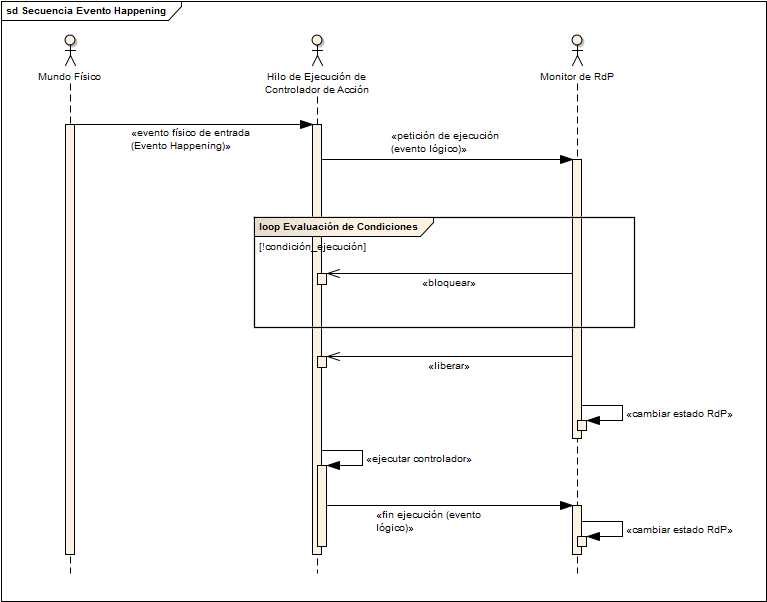
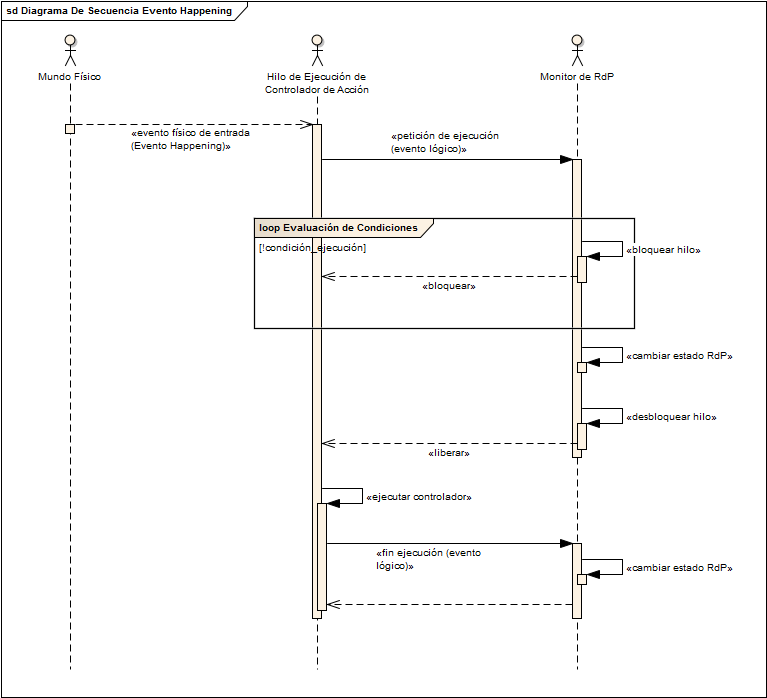
Adding implementation details and UML diagrams. Modifying sequence diagrams for task and happening events

diff --git a/InformeBaboon/sections/baboon_framework/implementacion/DetallesImplementacion.tex b/InformeBaboon/sections/baboon_framework/implementacion/DetallesImplementacion.tex
@@ -1,0 +1,254 @@
+\section{Implementación de \nombreFramework Framework}
+El framework fue implementado de acuerdo a los aspectos de diseño expuestos en
+las secciones anteriores. Es un framework de caja blanca (ver
+sección~\ref{sec:tipos_framework}), donde el usuario tiene la
+responsabilidad de definir componentes como:
+\begin{itemize} 
+  \item Controladores de acciones.
+  \item Tópicos.
+  \item Modelo de la lógica del sistema en RdP.
+\end{itemize}
+
+Por su lado, el framework se encarga de:
+\begin{itemize} 
+  \item Proveer interfaces para interconectar los componentes definidos por el
+  usuario.
+  \item Controlar el flujo de ejecución del programa.
+\end{itemize}
+
+\subsection{Implementación de un Controlador De Acción}
+\label{sec:implementacion_controlador_accion}
+La implementación de un controlador de acción queda definida por dos elementos:
+\begin{labeling}{description}
+  \item [Acción a realizar: ] Método con una anotación de Java
+  identificando el tipo de controlador de acción. 
+  Dicha anotacion puede ser de dos tipos:
+  \begin{itemize}
+    \item \emph{@TaskController}
+    \item \emph{@HappeningController}
+  \end{itemize}
+  \item [Ejecutante de la Acción: ] Una instancia de la clase que contiene el
+  método.
+\end{labeling}
+
+\subsection{Componentes del Framework}
+En la Figura~\ref{fig:diagrama_componentes} se pueden observar los
+módulos que componen el framework implementado:
+\begin{itemize}
+  \item \textbf{BaboonConfig: } Este componente se encarga de manejar la
+  suscripción de controladores de acciones a los tópicos (eventos de acción).
+  Para ello provee interfaces para:
+	  \begin{itemize}
+	    \item Recibir el archivo de tópicos definido por el usuario
+	    \emph{(addTopics)}.
+	    \item Suscribir los controladores de acciones a tópicos específicos
+	    \emph{(subscribeToTopic, createNewComplexTask, appendTaskToComplexTask)}.
+	    \item Consultar las suscripciones existentes
+	    \emph{(getTaskControllerSubscription,
+	    getHappeningControllerSubscripton)}.
+	  \end{itemize}
+	  
+  \item \textbf{PetriCore: } Este componente es un wrapper sobre el monitor de
+  Redes de Petri descripto en la
+  Sección~\ref{sec:java_petri_concurrency_monitor}, y provee las interfaces del
+  monitor al resto del framework.
+  
+  \item \textbf{BaboonApplication: } Es una interfaz Java que define dos
+  métodos. Esta interfaz debe ser implementada por una clase de usuario, que
+  será utilizada para inicializar el sistema. Los métodos son:
+  \begin{itemize}
+    \item \textbf{\emph{declare(): }} En este método el usuario debe:
+    	\begin{enumerate}
+    	  \item Proveer un archivo JSON con la definición de los tópicos.
+    	  \item Proveer un archivo PNML con la definición del modelo de RdP.
+    	  \item Declarar e inicializar los objetos del sistema. Estos objetos
+    	  (desarrollados por el usuario) contienen la implementación
+    	  de los controladores de acción.
+    	\end{enumerate}
+    \item \textbf{\emph{subscribe(): }} En este método el usuario define todas
+    las suscripciones de controladores de acción a tópicos.
+   \end{itemize}
+   
+  \item \textbf{DummyThread: } Objeto que implementa la interfaz Callable y, en
+  consecuencia, es ejecutable por un hilo. Encapsula el controlador de acción
+  con los eventos lógicos necesarios para su sincronización. Se lo denomina
+  ``dummy'' (tonto) porque su función es intercambiar eventos lógicos de
+  sincronización con el monitor, que ya han sido definidos en el tópico, y
+  ejecutar acciones, que ya han sido definidas en el TaskController.
+  
+  \item \textbf{DummiesExecutor: } Pool de hilos encargado de ejecutar los
+  objetos DummyThread.
+  
+  \item \textbf{HappeningControllerJoinpoints: } Objeto de AspectJ donde se
+  definen los puntos de unión del sistema y los advices que se aplican en
+  dichos puntos.
+  Es observable por aquellos objetos que implementen la interfaz
+  JoinPointObserver.
+  Los puntos de union se alcanzan:
+  	\begin{itemize}
+  	  \item  En el momento previo a iniciar la ejecución de un
+  	  método anotado con \emph{@HappeningController}.
+  	  \item En el momento posterior a finalizar la ejecución de un
+  	  método anotado con \emph{@HappeningController}.
+  	\end{itemize}
+  Durante la ejecución del advice se realiza una actualización sobre los
+  observadores suscriptos al objeto, brindando el estado del joinpoint
+  alcanzado. El estado del joinpoint permite identificar a un
+  HappeningController en particular a partir de la instancia de objeto que hizo
+  el llamado a ejecución, y de la firma del método que se llamó a ejecutar (ver
+  Sección~\ref{sec:implementacion_controlador_accion}).
+  
+  \item \textbf{HappeningControllerSyncronizer: } Objeto que implementa la
+  interfaz JoinPointObserver. Se suscribe como observador del objeto
+  HappeningControllerJoinpoint. Cuando se alcanza un joinpoint intercambia con
+  el monitor los eventos lógicos necesarios para la sincronización del
+  HappeningController. Obtiene los eventos lógicos utilizando las
+  interfaces de BaboonConfig para consultar las suscripciones a tópicos.
+  
+  \item \textbf{Main: } Componente que contiene el método principal del
+  programa. Al existir inversión de control, el método main forma parte del
+  framework y no debe ser implementado por el usuario.
+\end{itemize}
+
+\begin{figure}[H]
+	\vspace*{-4cm}
+	\hspace{-1,60cm}
+	\includegraphics[width=150mm]{diagrama_componentes}
+	\caption{Diagrama de Componentes de la implementación de \nombreFramework
+	Framework}
+	\label{fig:diagrama_componentes}
+\end{figure}
+
+
+\subsection{Ejecución del Framework}
+
+\begin{itemize}
+  \item \textbf{Main: } La ejecución de este método consta de
+  los siguientes pasos (ver
+  Figura~\ref{fig:diagrama_secuencia_implementacion_ejecucion_main}):
+  	\begin{enumerate}
+  	  \item Obtiene la clase de usuario que implementa la interfaz
+  	  BaboonApplication (utilizando Reflection) e instancia un nuevo objeto de
+  	  dicha clase.
+  	  \item Ejecuta los métodos declare() y subscribe() (en ese orden) del
+  	  objeto mencionado en el punto anterior.
+  	  \item Crea el Objeto HappeningControllerSyncronizer y lo suscribe
+  	  como observer de HappeningControllerJoinPoint.
+  	  \item Utiliza las interfaces de BaboonConfig para obtener las
+  	  suscripciones a tópicos de los Task Controllers.
+  	  \item Encapsula los TaskControllers en DummyThreads y los envía al objeto
+  	  DummiesExecutor para su ejecución.
+  	\end{enumerate}
+  	
+ \begin{figure}[H]
+	\hspace{-2,90cm}
+	\includegraphics[width=180mm]{secuencia_implementacion_ejecucion_main}
+	\caption{Diagrama de Secuencia de la Implementación del Método Principal}
+	\label{fig:diagrama_secuencia_implementacion_ejecucion_main}
+\end{figure}
+
+
+  \item \textbf{TaskController: } La ejecución del TaskController implementada
+  consta de los siguientes pasos (ver
+  Figura~\ref{fig:diagrama_secuencia_implementacion_ejecucion_task_controller}):
+  	\begin{enumerate}
+  	  \item El pool de hilos DummiesExecutor llama a ejecutar el método
+  	  \emph{call()} del DummyThread (el DummyThread encapsula al TaskController y
+  	  al Tópico suscripto).
+  	  \item El método \emph{call()} del DummyThread inicia un bucle infinito
+  	  \item Utilizando el tópico de la suscripción se obtiene la transición que
+  	  conforma el permiso de ejecución.
+  	  \item El DummyThread realiza un disparo perenne de la transición de permiso
+  	  de ejecución.
+  	  \item Cuando el hilo que ejecuta al DummyThread es liberado por el
+  	  monitor, llama a ejecutar el método del TaskController.
+  	  \item El código del TaskController emite un evento físico de salida
+  	  (Evento Task).
+  	  \item Una vez finalizada la ejecución, se obtienen los nombres de las guardas asociadas al
+  	  controlador a través del tópico de la suscripción.
+  	  \item Se ejecutan los métodos GuardProvider que corresponden a las guardas
+  	  asociadas. 
+  	  \item El objeto DummyThread setea en el monitor de Petri, para cada guarda asociada, el valor
+  	  correspondiente que retornan los métodos GuardProvider.
+  	  \item Se obtienen del tópico los nombres de las transiciones de aviso de
+  	  finalización de ejecución.
+  	  \item El objeto DummyThread realiza disparos no perennes de las
+  	  transiciones de aviso de finalización.
+  	  \item Se repite el bucle infinito del método \emph{call()} del DummyThread.
+  	\end{enumerate}
+  	
+\begin{figure}[H]
+	\hspace{-2,90cm}
+	\includegraphics[width=180mm]{secuencia_implementacion_ejecucion_task_controller}
+	\caption{Diagrama de Secuencia de la Ejecución Implementada de un
+	TaskController}
+	\label{fig:diagrama_secuencia_implementacion_ejecucion_task_controller}
+\end{figure}
+
+  \item \textbf{HappeningController: } La ejecución implementada de un
+  HappeningController es de la siguiente forma (ver
+  Figura~\ref{fig:diagrama_secuencia_implementacion_ejecucion_happening_controller}):
+  	\begin{enumerate}
+  	  \item El código de usuario recibe un evento asincrónico del Mundo Exterior
+  	  (Evento Happening).
+  	  \item El código de usuario realiza en un hilo el llamado a ejecución del
+  	  HappeningController encargado de manejar el Evento Happening.
+  	  \item En este punto de la ejecución se alcanza un joinpoint, por lo tanto
+  	  antes de ejecutar el HappeningController se ejecuta el advice
+  	  \emph{before()} del objeto HappeningControllerJoinPoint.
+  	  \item El advice \emph{before()} realiza un update del estado del joinpoint
+  	  al objeto HappeningControllerSincronizer.
+  	  Dicho estado se compone del nombre del método anotado con
+  	  \emph{@HappeningController} que se llamó a ejecución, de la instancia del
+  	  objeto que invocó dicho método y de un enum que indica que el joinpoint es
+  	  previo a la ejecución del controlador.
+  	  \item El HappeningControllerSincronizer obtiene de BaboonConfig la
+  	  suscripción al tópico del HappeningController, a partir de los datos
+  	  obtenidos del estado del joinpoint.
+  	  \item Utilizando el tópico de la suscripción se obtiene la transición que
+  	  conforma el permiso de ejecución.
+  	  \item El HappeningControllerSincronizer realiza un disparo perenne de la
+  	  transición de permiso de ejecución.
+  	  \item  Cuando el hilo de ejecución es liberado por el monitor, se ejecuta
+  	  el código del HappeningController, donde se maneja el evento recibido.
+  	  \item Al finalizar la ejecución del HappeningController se alcanza un
+  	  joinpoint, y se ejecuta el advice \emph{after()} del objeto
+  	  HappeningControllerJoinPoint.
+  	  \item El advice \emph{after()} realiza un update del estado del joinpoint
+  	  al objeto HappeningControllerSincronizer. Este estado es similar al
+  	  descripto en el advice \emph{before()}, con la diferencia de que en este
+  	  caso el enum indica que el joinpoint es posterior a la ejecución del
+  	  controlador.
+  	  \item El HappeningControllerSincronizer obtiene de BaboonConfig la
+  	  suscripción al tópico del HappeningController, a partir de los datos
+  	  obtenidos del estado del joinpoint.
+  	  \item Se obtienen los nombres de las guardas asociadas al controlador a
+  	  través del tópico de la suscripción.
+  	  \item Se ejecutan los métodos GuardProvider que corresponden a las guardas
+  	  asociadas.
+  	  \item El objeto HappeningControllerSincronizer setea en el monitor de
+  	  Petri, para cada guarda asociada, el valor correspondiente que retornan los métodos GuardProvider.
+  	  \item Se obtienen del tópico los nombres de las transiciones de aviso de
+  	  finalización de ejecución.
+  	  \item El objeto HappeningControllerSincronizer realiza disparos no perennes
+  	  de las transiciones de aviso de finalización.
+  	\end{enumerate}
+  	
+  	\begin{framed}
+	\textbf{Nota:} Los advices de AspectJ implementados se ``tejen'' al código de
+	usuario en tiempo de compilación (ver Sección~\ref{sec:aop_terminologia}).
+	Dichos advices son ejecutados por el mismo hilo que el HappeningController que
+	produce el joinpoint. De esta forma, el hilo que realiza los disparos de
+	transición desde el objeto HappeningControllerSincronizer es el mismo que
+	ejecuta el controlador de acción, permitiendo su sincronización.
+	\end{framed}
+
+\end{itemize}
+
+\begin{figure}[H]
+	\hspace{-2,90cm}
+	\includegraphics[width=180mm]{secuencia_implementacion_ejecucion_happening_controller}
+	\caption{Diagrama de Secuencia de la Ejecución Implementada de un
+	HappeningController}
+	\label{fig:diagrama_secuencia_implementacion_ejecucion_happening_controller}
+\end{figure}

diff --git a/InformeBaboon/sections/MarcoTeorico/AspectOrientedProgramming.tex b/InformeBaboon/sections/MarcoTeorico/AspectOrientedProgramming.tex
@@ -31,6 +31,7 @@ medida que se va desarrollando. \cite{Introduction_To_Aspect}
 
 
 \subsection{Terminología}
+\label{sec:aop_terminologia}
 \begin{itemize}
   \item Intereses Transversales (Cross-cutting concerns): Aunque la mayoría de
   las clases en un modelo orientado a objetos está destinada a perfeccionar una función única y
@@ -60,4 +61,14 @@ medida que se va desarrollando. \cite{Introduction_To_Aspect}
   
   \item Aspecto (Aspect): La combinación de un punto de corte y un consejo se
   denomina aspecto. \cite{Introduction_To_Aspect}
+  
+  \item Tejido (Weaving): Proceso de aplicar Aspectos a los Objetos
+  Destinatarios para crear los nuevos Objetos Resultantes en los especificados
+  Puntos de unión. Este proceso puede ocurrir a lo largo del ciclo de vida del
+  Objeto Destinatario:
+  	\begin{itemize}
+		\item Aspectos en Tiempo de Compilación.
+		\item Aspectos en Tiempo de Carga.
+		\item Aspectos en Tiempo de Ejecución.
+	\end{itemize}
 \end{itemize} 

diff --git a/InformeBaboon/InformeBaboon.tex b/InformeBaboon/InformeBaboon.tex
@@ -76,13 +76,14 @@
             \include{./sections/Desarrollo/Requerimientos}
         \chapter{Monitor de Concurrencia con Redes de Petri}
             \include{./sections/Desarrollo/java_petri_concurrency_monitor/PetriConcurrencyMonitor}
-        \chapter{\nombreFramework \  Framework}
+        \chapter{Diseño de \nombreFramework \  Framework}
             \include{./sections/baboon_framework/Eventos}
             \include{./sections/baboon_framework/ModosDeSincronizacion}
             \include{./sections/baboon_framework/TasksHappenings}
             \include{./sections/baboon_framework/GuardProviders}
             \include{./sections/baboon_framework/RelacionEventosLogicosEventosDeAccionControladoresDeAccion}
-            
+        \chapter{Implementación de \nombreFramework \  Framework}
+        	\include{./sections/baboon_framework/implementacion/DetallesImplementacion}
     \bibliography{./bibliografia}
 	\bibliographystyle{plain}
 \end{document}

diff --git a/InformeBaboon/sections/MarcoTeorico/Frameworks.tex b/InformeBaboon/sections/MarcoTeorico/Frameworks.tex
@@ -87,7 +87,8 @@ y el flujo de control del programa.
 \begin{itemize}
 
     \item Black-Box Frameworks: La forma más fácil de usar un framework es
-	conectando componentes ya existentes. Esto no modifica el framework ni crea nuevas clases concretas.
+	conectando componentes ya existentes. Esto no modifica el framework ni crea
+	nuevas clases concretas.
 	Reutiliza las interfaces del framework y sus reglas para interconectar
 	componentes. Es lo más parecido a construir un circuito. El desarrollador sólo
 	tiene que saber que un objeto A se conecta con un objeto B a través de una
